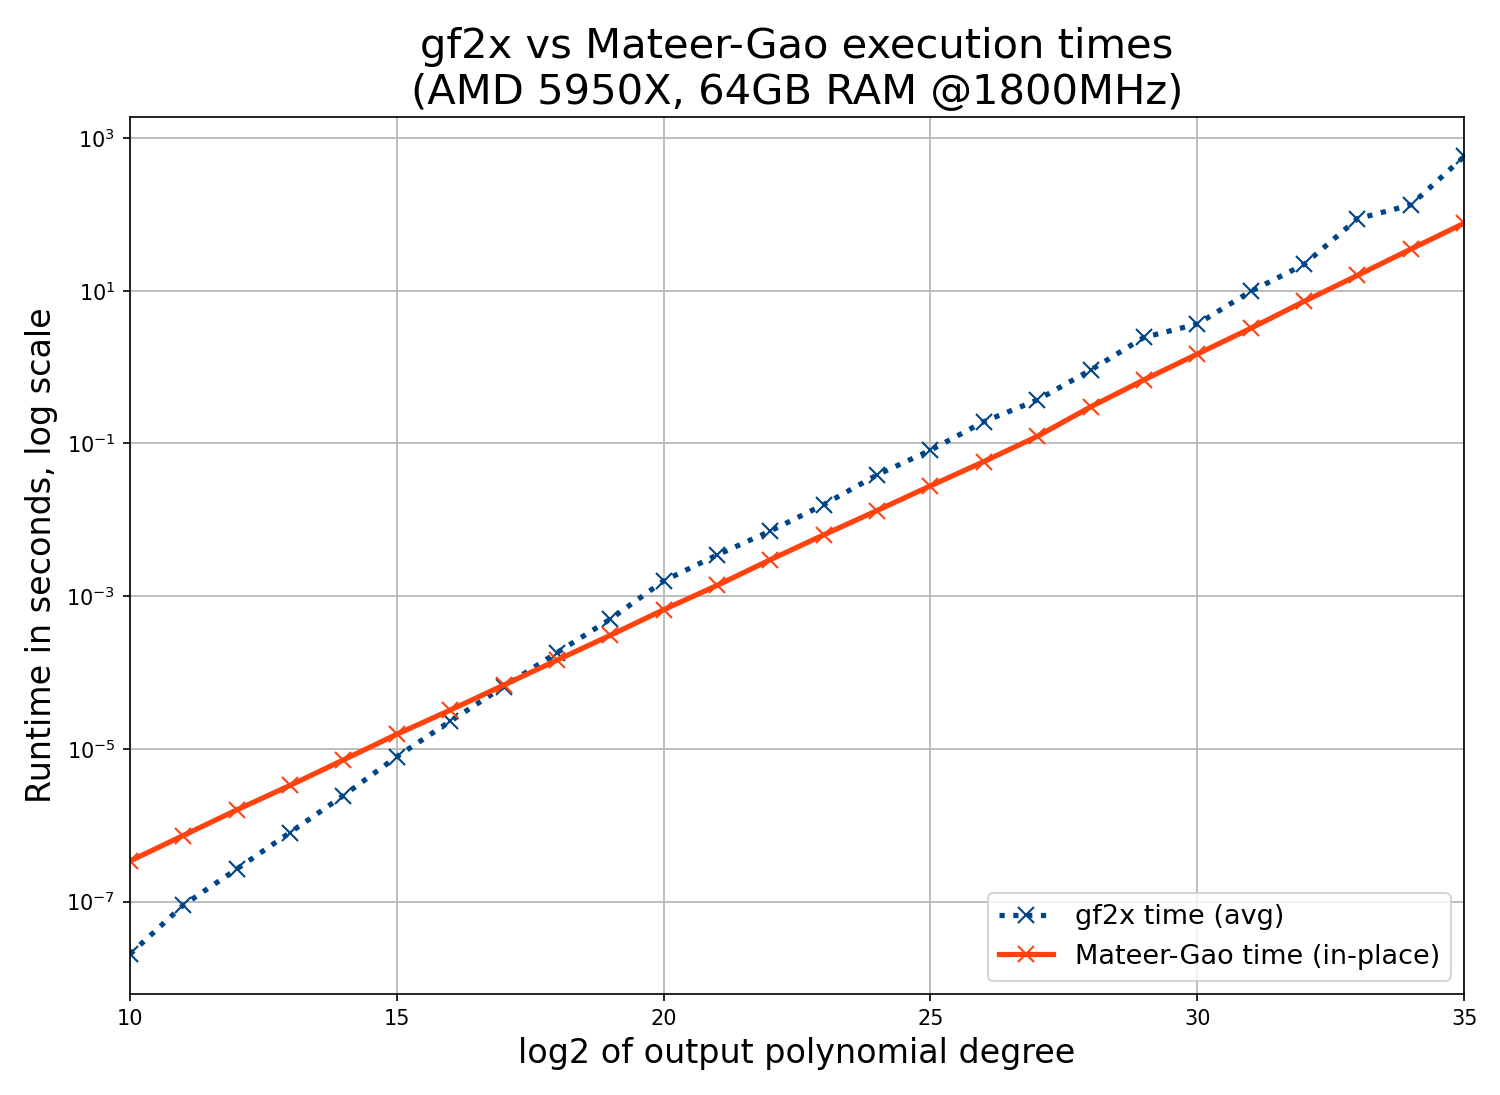
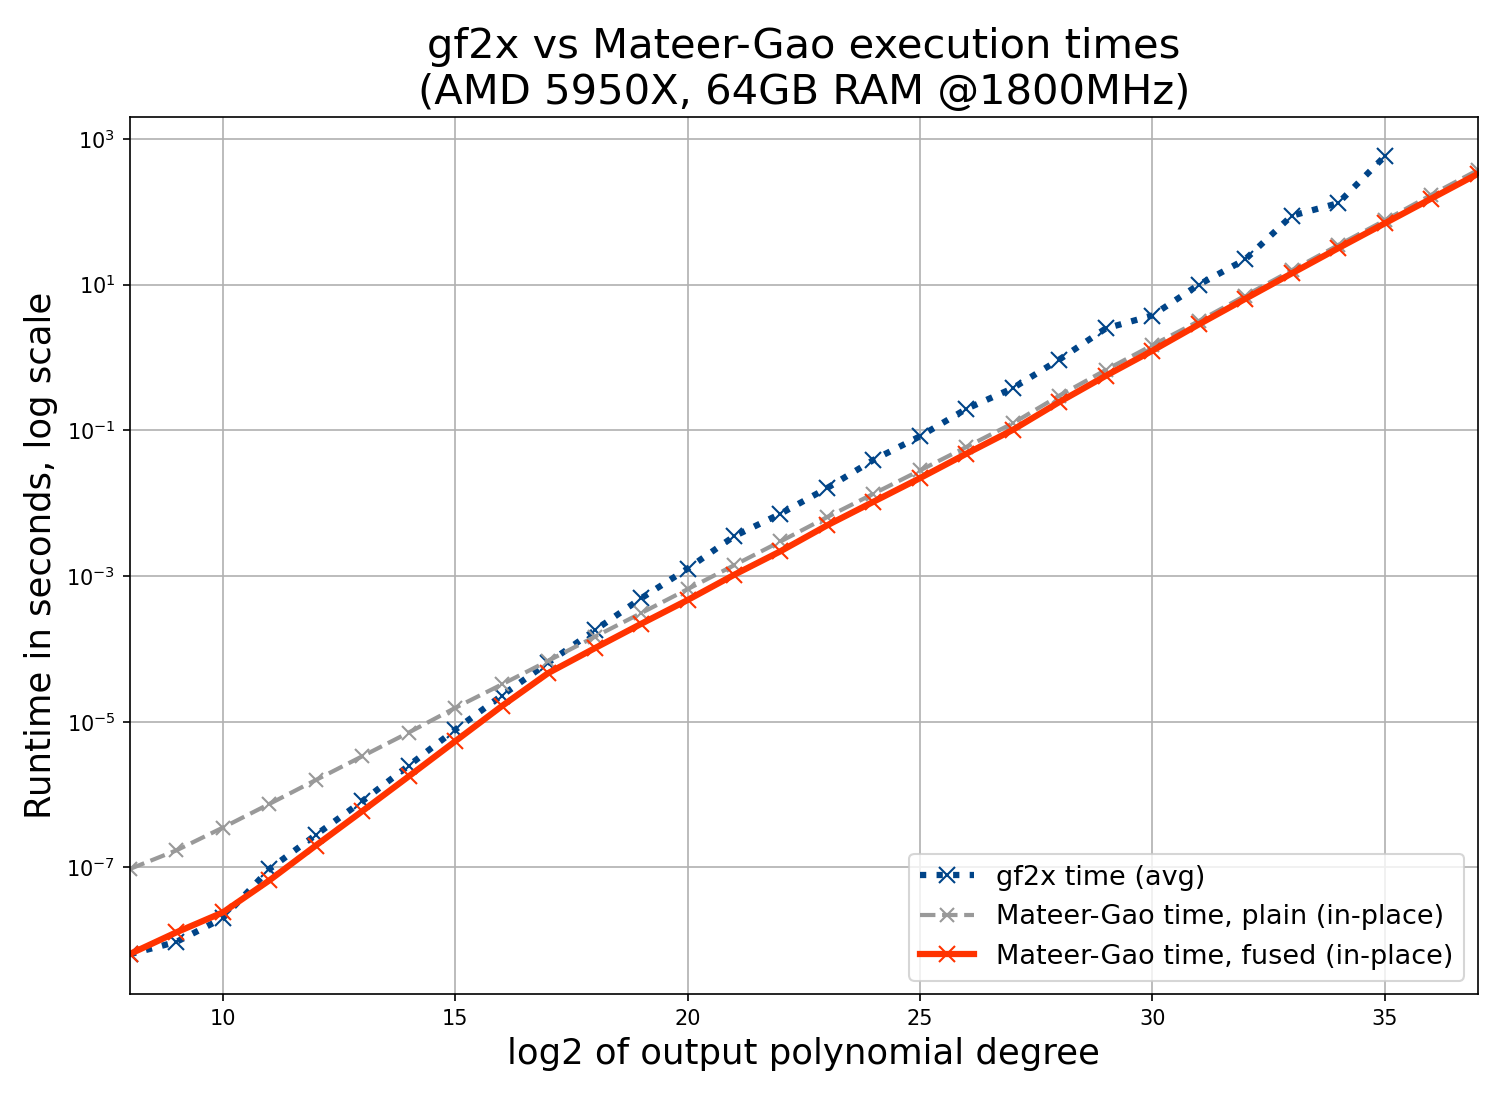
README: fused variant first, new benchmark (5950X, sizes 8 to 37), updated graphs; fft_test: check AVX2/VPCLMULQDQ when targeted

diff --git a/fft_test.cpp b/fft_test.cpp
@@ -70,9 +70,18 @@ static bool decompose_taylor_test(
 int main(int UNUSED(argc), char** UNUSED(argv))
 {
   cpu_features f;
-  if(!(f.has_sse2 && f.has_pclmul))
+  bool cpu_has_required_flags = f.has_sse2 && f.has_pclmul;
+#if defined(__AVX2__)
+  // the build targets AVX2 (-march=native): the compiler may use it anywhere
+  cpu_has_required_flags = cpu_has_required_flags && f.has_avx2;
+#endif
+#if defined(__VPCLMULQDQ__)
+  // the compiler vectorizes the PCLMULQDQ loops of mateer_gao.h with VPCLMULQDQ
+  cpu_has_required_flags = cpu_has_required_flags && f.has_vpclmul;
+#endif
+  if(!cpu_has_required_flags)
   {
-    cout << "SSE2 and PCMULQDQ are required. Exiting" << endl;
+    cout << "cpu flags required not present (SSE2, PCMULQDQ, and AVX2 and VPCLMULQDQ if the build targets them). Exiting" << endl;
     exit(2);
   }
 

diff --git a/README.md b/README.md
@@ -15,49 +15,12 @@ This project is about experimenting with these DFT algorithms. Reference impleme
 
 Mateer-Gao DFT (and crucially, its truncated implementation) is used to implement fast multiplication of binary polynomials (see https://cr.yp.to/f2mult.html for an outline of the method used). DFTs are used to evaluate the polynomials, then the values obtained for both polynomials are multiplied pointwise, and finally the product is built from the values with an inverse DFT). It is tested and benched against the fastest product implementation known to the author, from library `gf2x`, version 1.3 (https://gitlab.inria.fr/gf2x/gf2x).
 
-The DFT approach is tested by multiplying polynomials of degree 2<sup>u-1</sup> - 1 for values of u s.t. the computations fit into memory. By default `product_test` runs u = 8...19, 25, 30 and 34, and compares results with gf2x only up to u = 25; the list of sizes and these limits are constants at the top of `product_test.cpp`. With the plain variant, it is slower than gf2x for small sizes (u < 18 on an AMD 5950X), and faster beyond that (see the fused variant below). It also uses less memory for large sizes. 
+The DFT approach is tested by multiplying polynomials of degree 2<sup>u-1</sup> - 1 for values of u s.t. the computations fit into memory. By default `product_test` runs u = 8...19, 25, 30 and 34, and compares results with gf2x only up to u = 25; the list of sizes and these limits are constants at the top of `product_test.cpp`. On an AMD 5950X, the fused variant is faster than gf2x from u = 11, with a growing advantage for large sizes (see the results below). The plain variant is a slower reference implementation. Both use less memory than gf2x for large sizes. 
 Both an in-place and a not-in-place product variant are provided. The in-place variant uses less memory and is slightly faster.
-
-### Product computation time results
-
-Experiments on a PC with an AMD Ryzen 9 5950X CPU and 64GB of DDR4 RAM @1800MHz (3600 MT/s), with gf2x 1.3, are summarized below. Results are for the in-place product variant. The code was compiled with gcc using `-march=native` (which enables the 256-bit `vpclmulqdq` code path on this CPU). Each time is an average over repeated runs, which are timed in batches (a batch lasts at least 1 ms, and runs are repeated until 2 s have elapsed), as reading the clock takes about 25 ns, which is not negligible for the smallest sizes. The figures for u = 10...30 were obtained by running `product_test` with `gf2x_max_logsize = 30` and the size list set to u = 8...30; those for u = 31...35 were obtained with a previous version of `product_test` that timed each run (which makes no difference at these sizes). The raw numbers are in `2026-10-results_in_place.csv`. Sizes above 2<sup>35</sup> were not measured (see the memory requirements below: the in-place product of size 2<sup>36</sup> needs 28 GiB, and that of size 2<sup>37</sup> needs 56 GiB, which is close to the 64GB available).
-
-|Output log2 size|gf2x product time (sec.)|Mateer-Gao product time (sec.)|
-|:----:|:----:|:----:|
-|10| 2.046e-08| 3.397e-07|
-|11| 8.967e-08| 7.335e-07|
-|12| 2.663e-07| 1.585e-06|
-|13| 8.018e-07| 3.322e-06|
-|14| 2.447e-06| 7.171e-06|
-|15| 7.89e-06| 1.553e-05|
-|16| 2.296e-05| 3.218e-05|
-|17| 6.528e-05| 6.825e-05|
-|18| 0.0001819| 0.000145|
-|19| 0.0004993| 0.0003072|
-|20| 0.001584| 0.000665|
-|21| 0.003457| 0.001381|
-|22| 0.007146| 0.003006|
-|23| 0.01583| 0.006355|
-|24| 0.03877| 0.01325|
-|25| 0.08161| 0.02786|
-|26| 0.1932| 0.058|
-|27| 0.3703| 0.1239|
-|28| 0.9148| 0.3017|
-|29| 2.449| 0.6817|
-|30| 3.67| 1.484|
-|31| 9.827| 3.221|
-|32| 22.11| 7.256|
-|33| 87.79| 15.9|
-|34| 133.1| 35.14|
-|35| 574.1| 76.79|
-
-![Execution times](https://github.com/kunzjacq/Additive_DFTs/blob/master/times.png?raw=true)
-
-![Speed ratio](https://github.com/kunzjacq/Additive_DFTs/blob/master/speed_ratio.png?raw=true)
 
 ### Fused variant
 
-The plain product above (`libfft/mg.cpp`, `include/mg.h`) is a direct implementation of the Mateer-Gao algorithm. A second implementation, `libfft/mg_fused.cpp` (`include/mg_fused.h`, namespace `mg_fused`), has the same interface and gives the same results, but is 1.05 to 15 times faster (the largest gains are at the smallest sizes); it is a copy of `mg.cpp` that adds optimizations and leaves the original untouched.
+Two implementations of the product are provided. The fused variant (`libfft/mg_fused.cpp`, `include/mg_fused.h`, namespace `mg_fused`) is the fastest; the plain variant (`libfft/mg.cpp`, `include/mg.h`), described [below](#plain-variant), is a direct implementation of the Mateer-Gao algorithm. Both have the same interface and give the same results; the fused variant is 1.1 to 15 times faster than the plain one (the largest gains are at the smallest sizes). It is a copy of `mg.cpp` that adds optimizations and leaves the original untouched. It is faster than gf2x from 2<sup>11</sup> bits on.
 
 **Principle.** The DFT is computed recursively on a square array: the Taylor decomposition and DFTs on columns first, then DFTs on rows. In the product, the forward DFTs of both operands, the pointwise product and the first stages of the inverse DFT are chained, so at the end of the forward DFTs the rows are polynomials of degree < R (R = 4, 16 or 256 words) evaluated on a coset a + GF(R) of the subfield GF(R) of GF(2<sup>64</sup>), which is possible because the beta basis is a Cantor basis. For a row, "DFT of both operands, pointwise product, inverse DFT" is therefore just a product of two polynomials of degree < R modulo the polynomial vanishing on the coset, x<sup>R</sup> + x + c, with c = a<sup>R</sup> + a (c is already known to the DFT code: it is the offset of the next recursion level). The fused variant does not perform these DFT stages on rows of 16 words (4 words for the smallest sizes): it computes the product of the rows directly.
 
@@ -67,44 +30,95 @@ The plain product above (`libfft/mg.cpp`, `include/mg.h`) is a direct implementa
 
 **Taylor decompositions.** The fused variant also uses faster Taylor decompositions (`include/mg_taylor_opt.h`): two levels of the recursion are merged into one step, and the decomposition of rows of 8 and 16 words is done in AVX2 registers. They are worth 3 to 6% of the time of a product at sizes of 2<sup>18</sup> bits and more (where the DFT is used), and give the same results as the original functions. The plain variant still uses the original ones. See [taylor_merge.md](taylor_merge.md).
 
-**Limitations and origin of the base case.** All the timings in this document are for polynomials of degree 2<sup>u-1</sup> - 1, i.e. for sizes that are powers of 2. Unlike gf2x, the implementation (both variants) is not optimized for other sizes: the size of the DFTs, and the size of the operands in the base case, are rounded up to a power of 2, so that the time of a product only increases in steps, at the powers of 2, and the product of two polynomials of a size just above a power of 2 takes about as long as a product of the next power of 2. gf2x on the other hand has code specialized for many sizes (1 to 9 words, then a choice of Toom-Cook variants for each size), and its time increases more smoothly. The organization of the base case (Karatsuba on 128-bit digits kept in vector registers) was inspired by the hand-crafted small products of gf2x, but the code was written independently and is not copied from gf2x.
-
 **Use.** The functions of `mg_fused.h` are drop-in replacements for those of `mg.h`. `product_test` uses them if the constant `use_fused_variant` at the top of `product_test.cpp` is set to `true`. Both variants are tested by `degree_test` in `product_test`.
 
-**Results.** Same machine as above (AMD 5950X, in-place product, same measurement method; these are the same figures as the first two columns of the table above for the sizes in common). Plain and fused variants were measured in separate runs of `product_test` (for sizes up to 2<sup>20</sup>, the fused column was measured again after the base case was added), and the results of both variants are checked against gf2x at each size. For gf2x, the smallest of the measured times is given. For sizes 2<sup>31</sup> to 2<sup>35</sup>, only the fused variant was measured again (one run per size, in-place, with `use_fused_variant = true`); the gf2x and plain Mateer-Gao columns are those of the table above:
+**Limitations and origin of the base case.** All the timings in this document are for polynomials of degree 2<sup>u-1</sup> - 1, i.e. for sizes that are powers of 2. Unlike gf2x, the implementation (both variants) is not optimized for other sizes: the size of the DFTs, and the size of the operands in the base case, are rounded up to a power of 2, so that the time of a product only increases in steps, at the powers of 2, and the product of two polynomials of a size just above a power of 2 takes about as long as a product of the next power of 2. gf2x on the other hand has code specialized for many sizes (1 to 9 words, then a choice of Toom-Cook variants for each size), and its time increases more smoothly. The organization of the base case (Karatsuba on 128-bit digits kept in vector registers) was inspired by the hand-crafted small products of gf2x, but the code was written independently and is not copied from gf2x.
 
-|Output log2 size|gf2x (sec.)|Mateer-Gao (sec.)|fused Mateer-Gao (sec.)|speedup of fused over plain|speed ratio fused / gf2x|
-|:----:|:----:|:----:|:----:|:----:|:----:|
-|8| 6.505e-09| 9.498e-08| 6.508e-09| 14.59| 1.00|
-|9| 9.667e-09| 1.742e-07| 1.303e-08| 13.37| 0.74|
-|10| 2.046e-08| 3.397e-07| 2.396e-08| 14.18| 0.85|
-|11| 8.967e-08| 7.335e-07| 6.535e-08| 11.22| 1.37|
-|12| 2.663e-07| 1.585e-06| 1.981e-07| 8.00| 1.34|
-|13| 8.018e-07| 3.322e-06| 5.865e-07| 5.66| 1.37|
-|14| 2.414e-06| 7.171e-06| 1.761e-06| 4.07| 1.37|
-|15| 7.832e-06| 1.553e-05| 5.354e-06| 2.90| 1.46|
-|16| 2.273e-05| 3.218e-05| 1.612e-05| 2.00| 1.41|
-|17| 6.528e-05| 6.825e-05| 4.786e-05| 1.43| 1.36|
-|18| 0.0001795| 0.000145| 0.0001082| 1.34| 1.66|
-|19| 0.0004964| 0.0003072| 0.0002282| 1.35| 2.18|
-|20| 0.001584| 0.000665| 0.0004886| 1.36| 3.24|
-|21| 0.003457| 0.001381| 0.001052| 1.31| 3.29|
-|22| 0.007146| 0.003006| 0.002275| 1.32| 3.14|
-|23| 0.01583| 0.006355| 0.005081| 1.25| 3.12|
-|24| 0.03877| 0.01325| 0.01066| 1.24| 3.64|
-|25| 0.08161| 0.02786| 0.02273| 1.23| 3.59|
-|26| 0.1932| 0.058| 0.04799| 1.21| 4.03|
-|27| 0.3703| 0.1239| 0.1055| 1.17| 3.51|
-|28| 0.9148| 0.3017| 0.2582| 1.17| 3.54|
-|29| 2.449| 0.6817| 0.583| 1.17| 4.20|
-|30| 3.67| 1.484| 1.278| 1.16| 2.87|
-|31| 9.827| 3.221| 2.913| 1.11| 3.37|
-|32| 22.11| 7.256| 6.598| 1.10| 3.35|
-|33| 87.79| 15.9| 14.78| 1.08| 5.94|
-|34| 133.1| 35.14| 32.68| 1.08| 4.07|
-|35| 574.1| 76.79| 71.07| 1.08| 8.08|
+#### Fused variant: product computation time results
 
-The fused variant is 8 to 15 times faster than the plain one up to 2<sup>10</sup> bits, thanks to the base case, 3 to 11 times faster from 2<sup>11</sup> to 2<sup>15</sup>, 2 times faster at 2<sup>16</sup>, and the advantage then decreases from 1.4x at 2<sup>17</sup> to 2<sup>20</sup> to 1.2x at 2<sup>27</sup> to 2<sup>30</sup> and 1.1x from 2<sup>31</sup> to 2<sup>35</sup>, where the last DFT stages weigh little. The fused variant is as fast as gf2x at 2<sup>8</sup> and 1.2 to 1.35 times slower at 2<sup>9</sup> and 2<sup>10</sup>, where gf2x uses hand-crafted code for each size. It is faster than gf2x from 2<sup>11</sup> on (1.3 to 1.5 times faster up to 2<sup>17</sup>, then 1.7 times at 2<sup>18</sup> and more than 2 times from 2<sup>19</sup>). The plain variant is faster than gf2x from 2<sup>18</sup> on.
+Experiments on a PC with an AMD Ryzen 9 5950X CPU and 64GB of DDR4 RAM @1800MHz (3600 MT/s), with gf2x 1.3, are summarized below. Results are for the in-place product variant. The code was compiled with gcc 13.3 using `-march=native` (which enables the 256-bit `vpclmulqdq` code path on this CPU). All figures, for both variants and for gf2x, come from one run of the script `benchmark.sh` (the raw numbers are in `2026-10-results_in_place.csv`). Each time is an average over repeated runs, which are timed in batches (a batch lasts at least 1 ms, and runs are repeated until 2 s have elapsed; for the largest sizes, this means a single run), as reading the clock takes about 25 ns, which is not negligible for the smallest sizes. The results of the plain variant are checked against gf2x at every size up to 2<sup>35</sup>, and those of the fused variant up to 2<sup>25</sup> (`benchmark.sh` limits the comparison in the fused run to save time; the fused times were not compared with gf2x results above that). gf2x was not run for u = 36 and 37 (not enough memory); the in-place product of size 2<sup>36</sup> needs 28 GiB and that of size 2<sup>37</sup> needs 56 GiB (see the memory requirements below), which is close to the 64GB available.
+
+|Output log2 size|gf2x (sec.)|fused Mateer-Gao (sec.)|speed ratio (gf2x time / fused time)|
+|:----:|:----:|:----:|:----:|
+|8| 6.451e-09| 6.497e-09| 0.99|
+|9| 9.516e-09| 1.288e-08| 0.74|
+|10| 2.016e-08| 2.417e-08| 0.83|
+|11| 9.491e-08| 6.641e-08| 1.43|
+|12| 2.795e-07| 1.999e-07| 1.40|
+|13| 8.113e-07| 5.923e-07| 1.37|
+|14| 2.503e-06| 1.778e-06| 1.41|
+|15| 7.762e-06| 5.392e-06| 1.44|
+|16| 2.282e-05| 1.632e-05| 1.40|
+|17| 6.455e-05| 4.648e-05| 1.39|
+|18| 0.0001793| 0.0001018| 1.76|
+|19| 0.0004933| 0.0002203| 2.24|
+|20| 0.001261| 0.0004674| 2.70|
+|21| 0.003501| 0.001037| 3.38|
+|22| 0.00715| 0.002186| 3.27|
+|23| 0.01605| 0.004945| 3.25|
+|24| 0.03914| 0.01044| 3.75|
+|25| 0.08253| 0.02202| 3.75|
+|26| 0.1965| 0.04765| 4.12|
+|27| 0.3784| 0.1013| 3.74|
+|28| 0.9347| 0.2442| 3.83|
+|29| 2.497| 0.559| 4.47|
+|30| 3.761| 1.234| 3.05|
+|31| 9.937| 2.833| 3.51|
+|32| 22.08| 6.355| 3.47|
+|33| 87.75| 14.19| 6.18|
+|34| 130.8| 31.47| 4.16|
+|35| 572.3| 68.93| 8.30|
+|36| not enough memory| 150.7| -|
+|37| not enough memory| 329.1| -|
+
+![Execution times](times.png)
+
+![Speed ratio](speed_ratio.png)
+
+The graphs also show the plain variant (grey dashed lines), described below. The fused variant is as fast as gf2x at 2<sup>8</sup> bits and 1.2 to 1.35 times slower at 2<sup>9</sup> and 2<sup>10</sup>, where gf2x uses hand-crafted code for each size. It is faster than gf2x from 2<sup>11</sup> on: 1.4 times faster up to 2<sup>17</sup>, then 1.8 times at 2<sup>18</sup>, 2.2 times at 2<sup>19</sup> and 2.7 times at 2<sup>20</sup>; from 2<sup>21</sup> to 2<sup>35</sup> it is 3 to 8 times faster. The gf2x times are irregular for large sizes (the ratio is 3.05 at 2<sup>30</sup> and 6.18 at 2<sup>33</sup>, for instance); the Mateer-Gao times, on the other hand, grow regularly, by a factor of about 2.2 each time the size doubles. The product of size 2<sup>37</sup> takes 329 s.
+
+### Plain variant
+
+The plain product (`libfft/mg.cpp`, `include/mg.h`) is a direct implementation of the Mateer-Gao DFT, without the optimizations of the fused variant. It is kept as a reference, as it is closer to the description of the algorithm (see [CODE_GUIDE.md](CODE_GUIDE.md)). Its memory requirements are the same as those of the fused variant. Its times, measured as described above in the same run, are compared to those of the fused variant below:
+
+|Output log2 size|plain Mateer-Gao (sec.)|fused Mateer-Gao (sec.)|fused is faster than plain by a factor|
+|:----:|:----:|:----:|:----:|
+|8| 9.546e-08| 6.497e-09| 14.69|
+|9| 1.716e-07| 1.288e-08| 13.33|
+|10| 3.524e-07| 2.417e-08| 14.58|
+|11| 7.439e-07| 6.641e-08| 11.20|
+|12| 1.585e-06| 1.999e-07| 7.93|
+|13| 3.357e-06| 5.923e-07| 5.67|
+|14| 7.106e-06| 1.778e-06| 4.00|
+|15| 1.55e-05| 5.392e-06| 2.87|
+|16| 3.245e-05| 1.632e-05| 1.99|
+|17| 6.849e-05| 4.648e-05| 1.47|
+|18| 0.0001462| 0.0001018| 1.44|
+|19| 0.0003095| 0.0002203| 1.40|
+|20| 0.000659| 0.0004674| 1.41|
+|21| 0.001402| 0.001037| 1.35|
+|22| 0.002979| 0.002186| 1.36|
+|23| 0.006423| 0.004945| 1.30|
+|24| 0.01346| 0.01044| 1.29|
+|25| 0.0281| 0.02202| 1.28|
+|26| 0.059| 0.04765| 1.24|
+|27| 0.1249| 0.1013| 1.23|
+|28| 0.2987| 0.2442| 1.22|
+|29| 0.6726| 0.559| 1.20|
+|30| 1.466| 1.234| 1.19|
+|31| 3.145| 2.833| 1.11|
+|32| 7.037| 6.355| 1.11|
+|33| 15.64| 14.19| 1.10|
+|34| 34.7| 31.47| 1.10|
+|35| 75.71| 68.93| 1.10|
+|36| 169.4| 150.7| 1.12|
+|37| 370.8| 329.1| 1.13|
+
+The fused variant is 13 to 15 times faster than the plain one up to 2<sup>10</sup> bits, 2.9 to 11 times faster from 2<sup>11</sup> to 2<sup>15</sup>, 2 times faster at 2<sup>16</sup>, and the difference then decreases: 1.4 to 1.5 times at 2<sup>17</sup> to 2<sup>20</sup>, 1.2 times at 2<sup>27</sup> to 2<sup>30</sup>, and 1.1 times from 2<sup>31</sup> on.
+
+**Where the differences come from.** They follow from the three optimizations of the fused variant described above:
+* *Small sizes (up to 2<sup>16</sup> bits):* the plain variant always runs the full DFT machinery (expansion of the operands into 64-bit words, three DFTs, pointwise product, contraction), whose fixed cost dominates for small products, whereas the fused variant multiplies directly with Karatsuba on carry-less products (base case). This is the source of the factors of 10 and more.
+* *Medium and large sizes:* the fused variant replaces the last stages of the DFTs, on rows of 16 words (4 for the smallest sizes), together with the pointwise product, by a direct product of the rows modulo x<sup>R</sup> + x + c, which is cheaper than the chain of DFT, product and inverse DFT on such a row (by a factor of 2 to 3 on a row). The faster Taylor decompositions add 3 to 6%. The gain is the same fraction of work at each size, but it is a smaller part of the total as the DFT grows, since the number of stages grows with the size while the number of stages replaced is fixed; this is why the advantage decreases from 1.4 to 1.1 as the size grows.
 
 ### Product memory requirements
 
@@ -130,7 +144,7 @@ For u = 37, i.e. a product of two polynomials of degree 2<sup>36</sup>-1, each i
 
 ### Product CPU requirements
 
-The polynomial product code uses a fast implementation of multiplication in GF(2<sup>64</sup>), which is implemented multiple ways in the source, using PCLMULQDQ, POPCNT and SSE intrinsics. `product_test` checks at startup that the CPU reports AVX2, BMI1, POPCNT and PCLMULQDQ (and VPCLMULQDQ when the build targets it, see `MG_USE_YMM_CLMUL` in `include/mg_templates.h`), and exits otherwise; `fft_test` only checks for SSE2 and PCLMULQDQ.
+The polynomial product code uses a fast implementation of multiplication in GF(2<sup>64</sup>), which is implemented multiple ways in the source, using PCLMULQDQ, POPCNT and SSE intrinsics. `product_test` checks at startup that the CPU reports AVX2, BMI1, POPCNT and PCLMULQDQ (and VPCLMULQDQ when the build targets it, see `MG_USE_YMM_CLMUL` in `include/mg_templates.h`), and exits otherwise; `fft_test` checks for SSE2 and PCLMULQDQ, plus AVX2 and VPCLMULQDQ when the build targets them (with `-march=native`, gcc vectorizes the PCLMULQDQ loops of the generic code with 256-bit `vpclmulqdq`).
 
 ## Cantor bases for large field sizes
 

diff --git a/CODE_GUIDE.md b/CODE_GUIDE.md
@@ -166,17 +166,19 @@ a 'pure' implementation).
   truncated Mateer-Gao, Taylor decomposition, and DFT inversion. Top-of-file knobs: `word`
   (`uint32_t` or `uint64_t` only, because the mult-representation functions exist for those),
   `allocated_buf_size` (1 GB), `check_correctness`, `benchmark`, `full_mg_tests`,
-  `full_dft_test_size_limit` and the `log_sz` list `{20, 24}`. It only checks for SSE2 and
-  PCLMULQDQ.
+  `full_dft_test_size_limit` and the `log_sz` list `{20, 24}`. It checks for SSE2 and
+  PCLMULQDQ, plus AVX2 and VPCLMULQDQ when the build targets them.
 - `utils.cpp` and `include/utils.h` provide CPUID feature detection (`cpu_features`) and
   printing and comparison helpers. `include/timer.h` is a small timer. `include/base.h` defines
   `restr` and `UNUSED`.
 
 ### Data files
 
-`2020-10-results_not_in_place.csv`, `2021-05-results_in_place.csv` and `runtimes.ods` hold the
-raw benchmark numbers. The README table matches the in-place CSV (a `0` in the gf2x column means
-out of memory). `times.png` and `speed_ratio.png` are the plots the README embeds.
+`2026-10-results_in_place.csv` holds the benchmark numbers of the README tables (output of
+`benchmark.sh`: gf2x, plain and fused times for each size); `2020-10-results_not_in_place.csv`,
+`2021-05-results_in_place.csv` and `runtimes.ods` are older results (3900X; a `0` in the gf2x column
+means out of memory). `times.png` and `speed_ratio.png` are the plots the README embeds, drawn from
+the 2026-10 CSV (gf2x, plain and fused curves).
 
 ## Things to know
 
